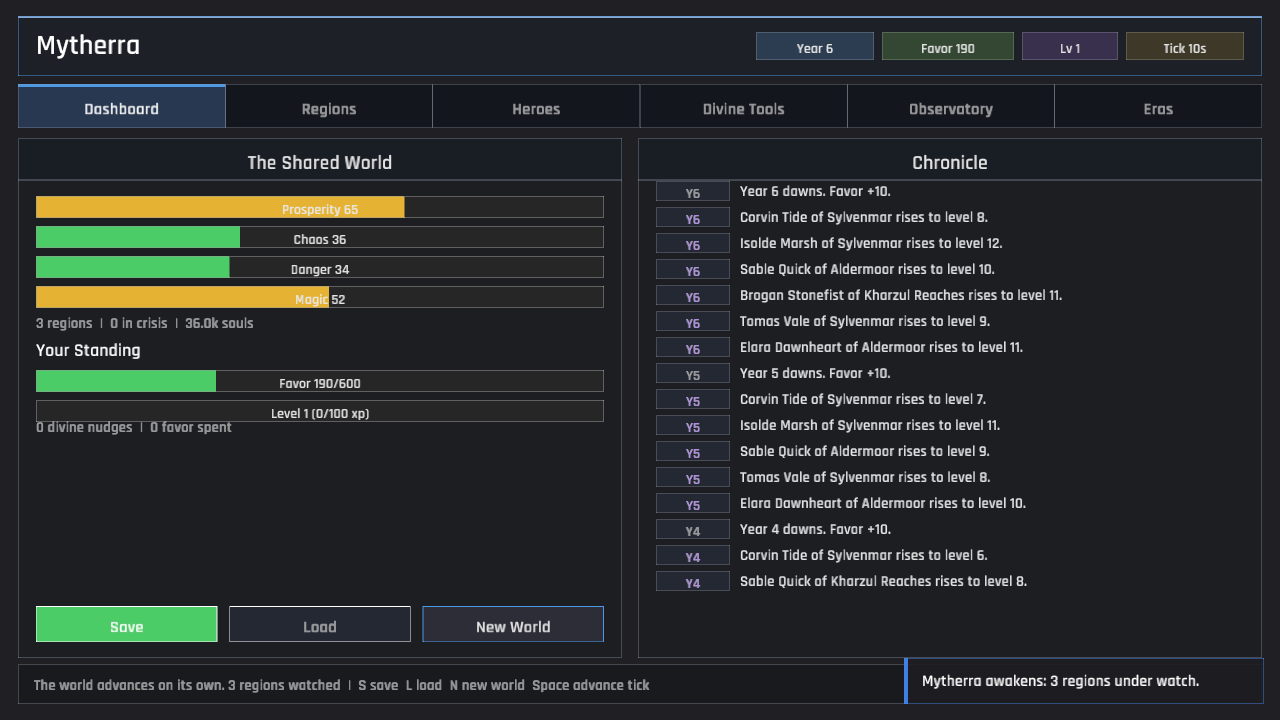
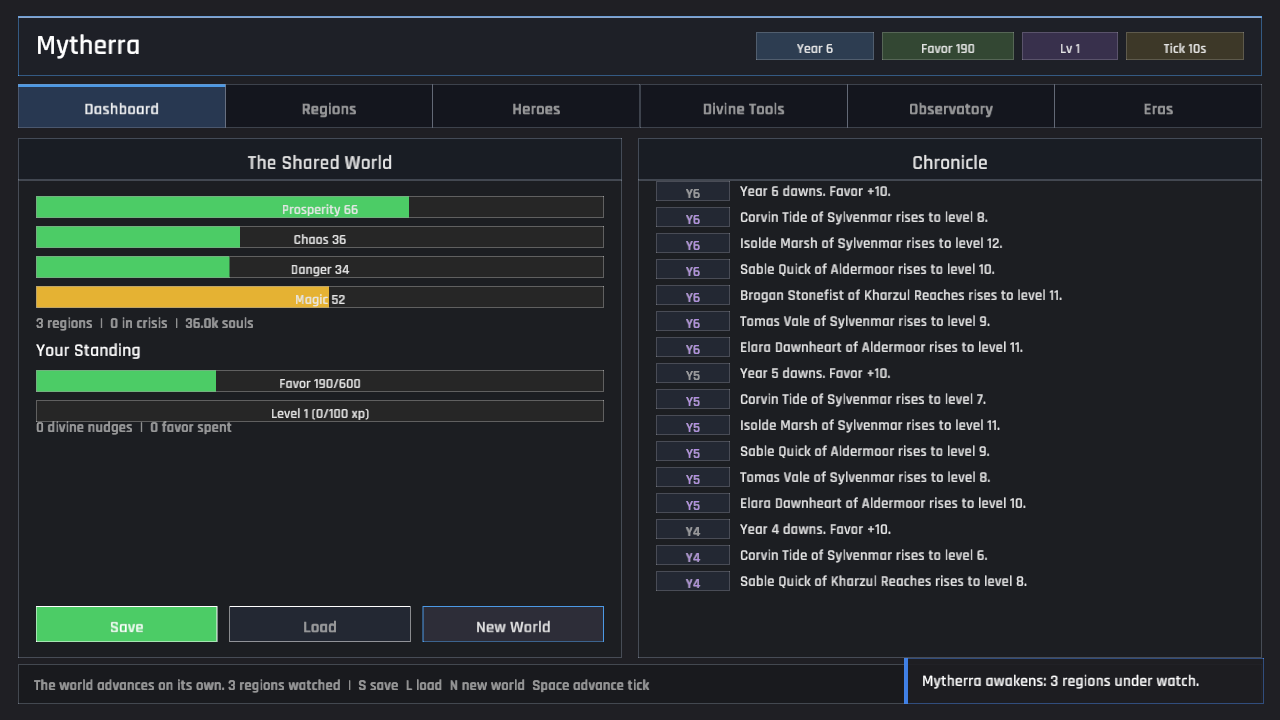
Add settlement simulation (GDD 5.3, part 1)
Begins the one remaining GDD sub-system; resource nodes follow next.

- data/settlement.rs + settlements.json (5 towns across the regions) +
  balance.settlement (growth formula divisors + clamps, prosperity drift,
  region contribution) — all tunable
- world/settlement.rs: Settlement with the GDD growth_rate formula
  (base + self/region prosperity terms - region chaos, clamped) and a
  region_contribution helper
- sim/settlement.rs: each tick population grows, settlement prosperity tracks
  its region, and a thriving settlement feeds prosperity back to that region —
  filling in the "settlement pressure" term region drift (5.2) had stubbed
- ui/regions.rs: a Settlements section in the region detail (name, population,
  prosperity); action cards trimmed to make room
- strings.json: holdings copy

Verified live: settlements grow (Aldervale 6.2k->7.0k) and lift their region's
prosperity. Growth formula and region contribution covered by tests. 55 tests;
fmt/clippy -D warnings/test all clean. Largest file 547 lines.

Changed region(s): [[0.0312, 0.275, 0.3438, 0.3056]]

diff --git a/src/world/settlement.rs b/src/world/settlement.rs
@@ -1,0 +1,87 @@
+//! Runtime settlement state (GDD 5.3): a town whose population grows on its own
+//! and its region's prosperity, and which in turn feeds prosperity back to its
+//! region.
+
+use crate::data::{SettlementBalance, SettlementSeed};
+use serde::{Deserialize, Serialize};
+
+#[derive(Debug, Clone, Serialize, Deserialize)]
+pub struct Settlement {
+    pub id: String,
+    pub name: String,
+    pub region_id: String,
+    pub population: f32,
+    pub prosperity: f32,
+}
+
+impl Settlement {
+    pub fn from_seed(seed: &SettlementSeed) -> Self {
+        Self {
+            id: seed.id.clone(),
+            name: seed.name.clone(),
+            region_id: seed.region_id.clone(),
+            population: seed.population.max(0.0),
+            prosperity: seed.prosperity.clamp(0.0, 100.0),
+        }
+    }
+
+    /// Per-tick growth rate from settlement + region state, clamped (GDD 5.3).
+    pub fn growth_rate(
+        &self,
+        region_prosperity: f32,
+        region_chaos: f32,
+        balance: &SettlementBalance,
+    ) -> f32 {
+        (balance.base_growth
+            + (self.prosperity - 50.0) / balance.self_prosperity_div
+            + (region_prosperity - 50.0) / balance.region_prosperity_div
+            - region_chaos / balance.region_chaos_div)
+            .clamp(balance.growth_min, balance.growth_max)
+    }
+
+    /// Prosperity this settlement contributes back to its region each tick.
+    pub fn region_contribution(&self, balance: &SettlementBalance) -> f32 {
+        (self.prosperity - 50.0) * balance.region_contribution
+    }
+}
+
+#[cfg(test)]
+mod tests {
+    use super::*;
+
+    fn balance() -> SettlementBalance {
+        crate::data::GameData::load().unwrap().balance.settlement
+    }
+
+    fn settlement(prosperity: f32) -> Settlement {
+        Settlement::from_seed(&SettlementSeed {
+            id: "s".to_owned(),
+            name: "S".to_owned(),
+            region_id: "r".to_owned(),
+            population: 1000.0,
+            prosperity,
+        })
+    }
+
+    #[test]
+    fn prosperous_settlement_grows_faster() {
+        let b = balance();
+        let rich = settlement(80.0).growth_rate(70.0, 20.0, &b);
+        let poor = settlement(30.0).growth_rate(30.0, 70.0, &b);
+        assert!(rich > poor);
+    }
+
+    #[test]
+    fn growth_rate_is_clamped() {
+        let b = balance();
+        let g = settlement(100.0).growth_rate(100.0, 0.0, &b);
+        assert!(g <= b.growth_max);
+    }
+
+    #[test]
+    fn thriving_settlement_contributes_positive() {
+        let b = balance();
+        assert!(settlement(80.0).region_contribution(&b) > 0.0);
+        assert!(settlement(20.0).region_contribution(&b) < 0.0);
+    }
+}

diff --git a/src/sim/settlement.rs b/src/sim/settlement.rs
@@ -1,0 +1,62 @@
+//! Per-tick settlement growth (GDD 5.3): population grows on the settlement's
+//! and its region's prosperity; settlement prosperity tracks its region; and a
+//! thriving settlement feeds prosperity back to that region (one of the region
+//! "pressure" terms §5.2 left stubbed until now). Deterministic: no RNG.
+
+use crate::data::{RegionBalance, SettlementBalance};
+use crate::world::{Region, Settlement};
+use macroquad_toolkit::math::approach;
+
+pub fn tick_settlements(
+    settlements: &mut [Settlement],
+    regions: &mut [Region],
+    balance: &SettlementBalance,
+    region_balance: &RegionBalance,
+) {
+    for settlement in settlements.iter_mut() {
+        let Some(idx) = regions.iter().position(|r| r.id == settlement.region_id) else {
+            continue;
+        };
+        let region_prosperity = regions[idx].prosperity;
+        let region_chaos = regions[idx].chaos;
+
+        let growth = settlement.growth_rate(region_prosperity, region_chaos, balance);
+        settlement.population = (settlement.population * (1.0 + growth)).max(0.0);
+        settlement.prosperity = approach(
+            settlement.prosperity,
+            region_prosperity,
+            balance.prosperity_drift_rate,
+        )
+        .clamp(0.0, 100.0);
+
+        let contribution = settlement.region_contribution(balance);
+        regions[idx].apply_deltas(contribution, 0.0, 0.0, 0.0, region_balance);
+    }
+}
+
+#[cfg(test)]
+mod tests {
+    use super::*;
+    use crate::data::GameData;
+    use crate::world::WorldState;
+
+    #[test]
+    fn calm_prosperous_region_grows_its_settlements() {
+        let data = GameData::load().unwrap();
+        let mut world = WorldState::new(&data);
+        for region in &mut world.regions {
+            region.prosperity = 80.0;
+            region.chaos = 10.0;
+        }
+        let before: Vec<f32> = world.settlements.iter().map(|s| s.population).collect();
+        tick_settlements(
+            &mut world.settlements,
+            &mut world.regions,
+            &data.balance.settlement,
+            &data.balance.region,
+        );
+        for (s, was) in world.settlements.iter().zip(before) {
+            assert!(s.population > was);
+        }
+    }
+}

diff --git a/src/ui/regions.rs b/src/ui/regions.rs
@@ -188,10 +188,52 @@ fn draw_region_detail(ctx: &UiContext<'_>, rect: Rect, actions: &mut Vec<UiActio
             ctx,
             region,
             def,
-            Rect::new(content.x, y, content.w, 64.0),
+            Rect::new(content.x, y, content.w, 58.0),
             actions,
         );
-        y += 72.0;
+        y += 66.0;
+    }
+
+    // Holdings: the region's settlements.
+    y += 4.0;
+    draw_ui_text_ex(
+        &strings.ui.holdings,
+        content.x,
+        y,
+        TextStyle::new(16.0, dark::TEXT_BRIGHT).params(),
+    );
+    y += 12.0;
+    let mut shown = 0;
+    for settlement in ctx
+        .world
+        .settlements
+        .iter()
+        .filter(|s| s.region_id == region.id)
+        .take(2)
+    {
+        draw_ui_text_ex(
+            &fill(
+                &strings.ui.settlement_line,
+                &[
+                    ("name", settlement.name.clone()),
+                    ("pop", format!("{:.1}k", settlement.population / 1000.0)),
+                    ("prosperity", format!("{:.0}", settlement.prosperity)),
+                ],
+            ),
+            content.x,
+            y + 14.0,
+            TextStyle::new(13.0, dark::TEXT_DIM).params(),
+        );
+        y += 20.0;
+        shown += 1;
+    }
+    if shown == 0 {
+        draw_ui_text_ex(
+            &strings.ui.no_holdings,
+            content.x,
+            y + 14.0,
+            TextStyle::new(13.0, dark::TEXT_DIM).params(),
+        );
     }
 }
 

diff --git a/src/data/balance.rs b/src/data/balance.rs
@@ -21,6 +21,7 @@ pub struct Balance {
     pub civilization: CivilizationBalance,
     pub pantheon: PantheonBalance,
     pub era: EraBalance,
+    pub settlement: SettlementBalance,
     pub player: PlayerBalance,
 }
 
@@ -236,6 +237,19 @@ pub struct WeatherBalance {
     pub decay_per_tick: f32,
     pub min_magnitude: f32,
     pub max_active: usize,
+}
+
+/// Settlement growth tuning (GDD 5.3).
+#[derive(Debug, Clone, Serialize, Deserialize)]
+pub struct SettlementBalance {
+    pub base_growth: f32,
+    pub self_prosperity_div: f32,
+    pub region_prosperity_div: f32,
+    pub region_chaos_div: f32,
+    pub growth_min: f32,
+    pub growth_max: f32,
+    pub prosperity_drift_rate: f32,
+    pub region_contribution: f32,
 }
 
 /// Era system tuning (GDD 5.7).

diff --git a/src/data/settlement.rs b/src/data/settlement.rs
@@ -1,0 +1,13 @@
+//! Settlement content types: the seeded towns within regions (GDD 5.3).
+
+use serde::{Deserialize, Serialize};
+
+/// A seeded settlement (`settlements.json`); `region_id` references a region.
+#[derive(Debug, Clone, Serialize, Deserialize)]
+pub struct SettlementSeed {
+    pub id: String,
+    pub name: String,
+    pub region_id: String,
+    pub population: f32,
+    pub prosperity: f32,
+}

diff --git a/src/data.rs b/src/data.rs
@@ -17,6 +17,7 @@ mod magic;
 mod myth;
 mod pantheon;
 mod region;
+mod settlement;
 pub mod strings;
 mod weather;
 
@@ -24,7 +25,8 @@ pub use action::RegionActionDef;
 pub use artifact::{ArtifactFocus, ArtifactSeed};
 pub use balance::{
     ArtifactBalance, Balance, BettingBalance, ChampionBalance, CivilizationBalance, EraBalance,
-    HeroBalance, MagicBalance, PantheonBalance, PlayerBalance, RegionBalance, WeatherBalance,
+    HeroBalance, MagicBalance, PantheonBalance, PlayerBalance, RegionBalance, SettlementBalance,
+    WeatherBalance,
 };
 pub use bet::{BetPredicate, BetType, ConfidenceLevel, TargetKind, TimeframeModifier};
 pub use champion::ChampionFocus;
@@ -36,6 +38,7 @@ pub use magic::{MagicPathSeed, MagicStat};
 pub use myth::{MythStat, MythTheme};
 pub use pantheon::{DeitySeed, PantheonStat};
 pub use region::{ClimateType, Culture, RegionSeed};
+pub use settlement::SettlementSeed;
 pub use strings::{fill, Strings};
 pub use weather::{WeatherIntensity, WeatherPattern};
 
@@ -47,6 +50,7 @@ const GAME_CONFIG_JSON: &str = include_str!("../assets/data/game_config.json");
 const REGIONS_JSON: &str = include_str!("../assets/data/regions.json");
 const REGION_ACTIONS_JSON: &str = include_str!("../assets/data/region_actions.json");
 const HEROES_JSON: &str = include_str!("../assets/data/heroes.json");
+const SETTLEMENTS_JSON: &str = include_str!("../assets/data/settlements.json");
 const ARTIFACTS_JSON: &str = include_str!("../assets/data/artifacts.json");
 const WEATHER_PATTERNS_JSON: &str = include_str!("../assets/data/weather_patterns.json");
 const WEATHER_INTENSITIES_JSON: &str = include_str!("../assets/data/weather_intensities.json");
@@ -68,6 +72,7 @@ pub struct GameData {
     pub regions: Vec<RegionSeed>,
     pub region_actions: DataRegistry<RegionActionDef>,
     pub heroes: Vec<HeroSeed>,
+    pub settlements: Vec<SettlementSeed>,
     pub artifacts: Vec<ArtifactSeed>,
     pub weather_patterns: Vec<WeatherPattern>,
     pub weather_intensities: Vec<WeatherIntensity>,
@@ -89,6 +94,7 @@ impl GameData {
         let regions: Vec<RegionSeed> = load_embedded_json(REGIONS_JSON)?;
         let region_actions = DataRegistry::from_embedded_json(REGION_ACTIONS_JSON, "id")?;
         let heroes: Vec<HeroSeed> = load_embedded_json(HEROES_JSON)?;
+        let settlements: Vec<SettlementSeed> = load_embedded_json(SETTLEMENTS_JSON)?;
         let artifacts: Vec<ArtifactSeed> = load_embedded_json(ARTIFACTS_JSON)?;
         let weather_patterns: Vec<WeatherPattern> = load_embedded_json(WEATHER_PATTERNS_JSON)?;
         let weather_intensities: Vec<WeatherIntensity> =
@@ -119,6 +125,7 @@ impl GameData {
             regions,
             region_actions,
             heroes,
+            settlements,
             artifacts,
             weather_patterns,
             weather_intensities,

diff --git a/src/sim.rs b/src/sim.rs
@@ -10,6 +10,7 @@ mod magic;
 mod myth;
 mod pantheon;
 mod region;
+mod settlement;
 mod speculation;
 mod weather;
 
@@ -30,6 +31,13 @@ pub fn tick_world(world: &mut WorldState, player: &mut PlayerState, data: &GameD
             newly_in_crisis.push(region.name.clone());
         }
     }
+
+    settlement::tick_settlements(
+        &mut world.settlements,
+        &mut world.regions,
+        &data.balance.settlement,
+        &data.balance.region,
+    );
 
     hero::tick_heroes(
         &mut world.heroes,

diff --git a/src/world.rs b/src/world.rs
@@ -13,6 +13,7 @@ mod myth;
 mod pantheon;
 mod player;
 mod region;
+mod settlement;
 mod speculation;
 mod weather;
 
@@ -28,6 +29,7 @@ pub use myth::{Myth, MythCandidate};
 pub use pantheon::{adjust_pressure, PantheonDeity};
 pub use player::PlayerState;
 pub use region::{Region, RegionStatus};
+pub use settlement::Settlement;
 pub use speculation::SpeculationEvent;
 pub use weather::{weather_cost, WeatherEvent};
 
@@ -52,6 +54,7 @@ pub struct WorldState {
     pub year: u32,
     pub tick_count: u64,
     pub regions: Vec<Region>,
+    pub settlements: Vec<Settlement>,
     pub heroes: Vec<Hero>,
     /// Monotonic counter for unique descendant-hero ids.
     pub hero_seq: u64,
@@ -86,6 +89,7 @@ impl WorldState {
             .map(|seed| Region::from_seed(seed, &data.balance.region))
             .collect();
         let heroes = data.heroes.iter().map(Hero::from_seed).collect();
+        let settlements = data.settlements.iter().map(Settlement::from_seed).collect();
         let artifacts = data.artifacts.iter().map(Artifact::from_seed).collect();
         let magic_paths = data.magic_paths.iter().map(MagicPath::from_seed).collect();
         let civilization = data
@@ -106,6 +110,7 @@ impl WorldState {
             year: data.config.start_year,
             tick_count: 0,
             regions,
+            settlements,
             heroes,
             hero_seq: 0,
             artifacts,

diff --git a/src/data/strings.rs b/src/data/strings.rs
@@ -177,6 +177,9 @@ pub struct UiText {
     pub favor_badge: String,
     pub level_badge: String,
     pub tick_badge: String,
+    pub holdings: String,
+    pub settlement_line: String,
+    pub no_holdings: String,
 }
 
 #[derive(Debug, Clone, Serialize, Deserialize)]